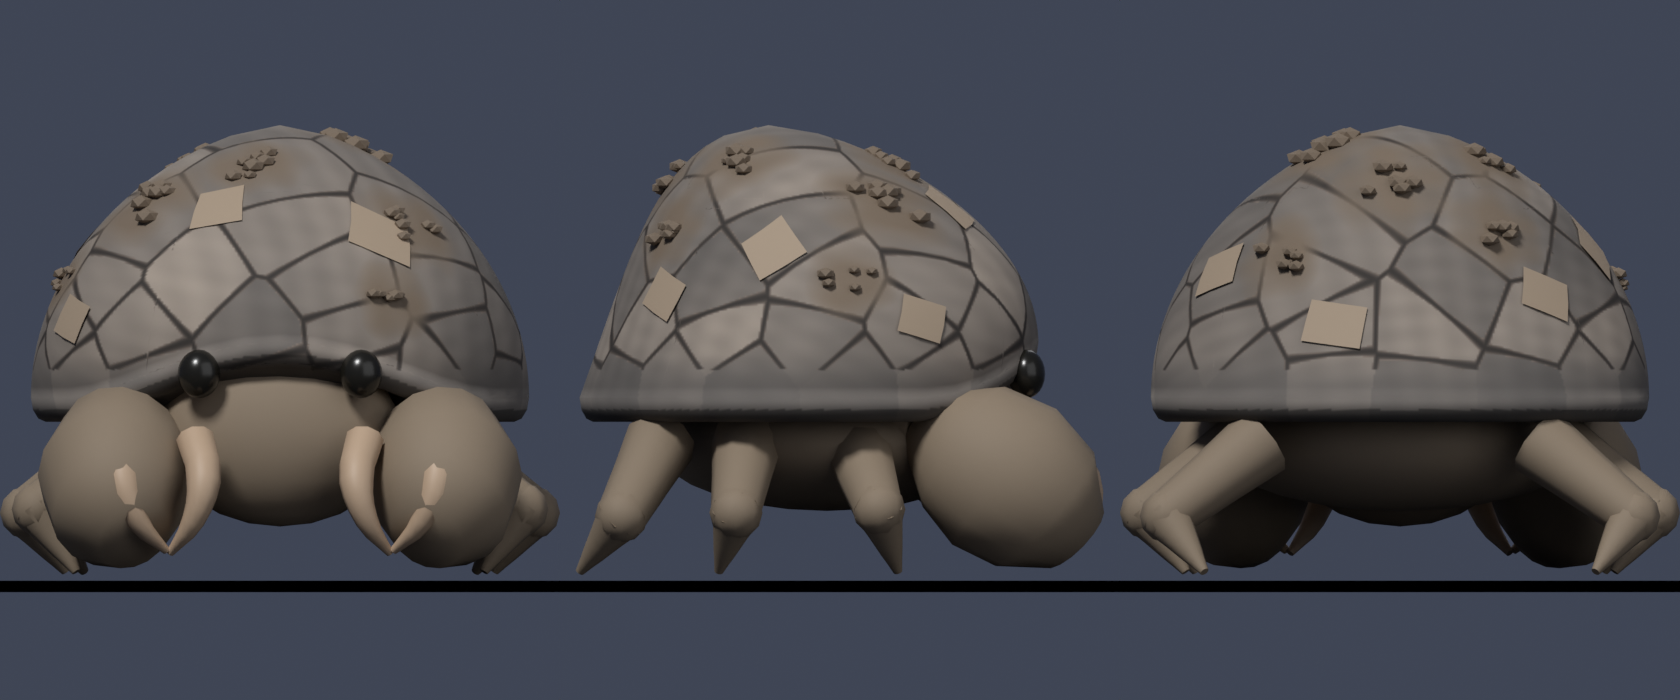
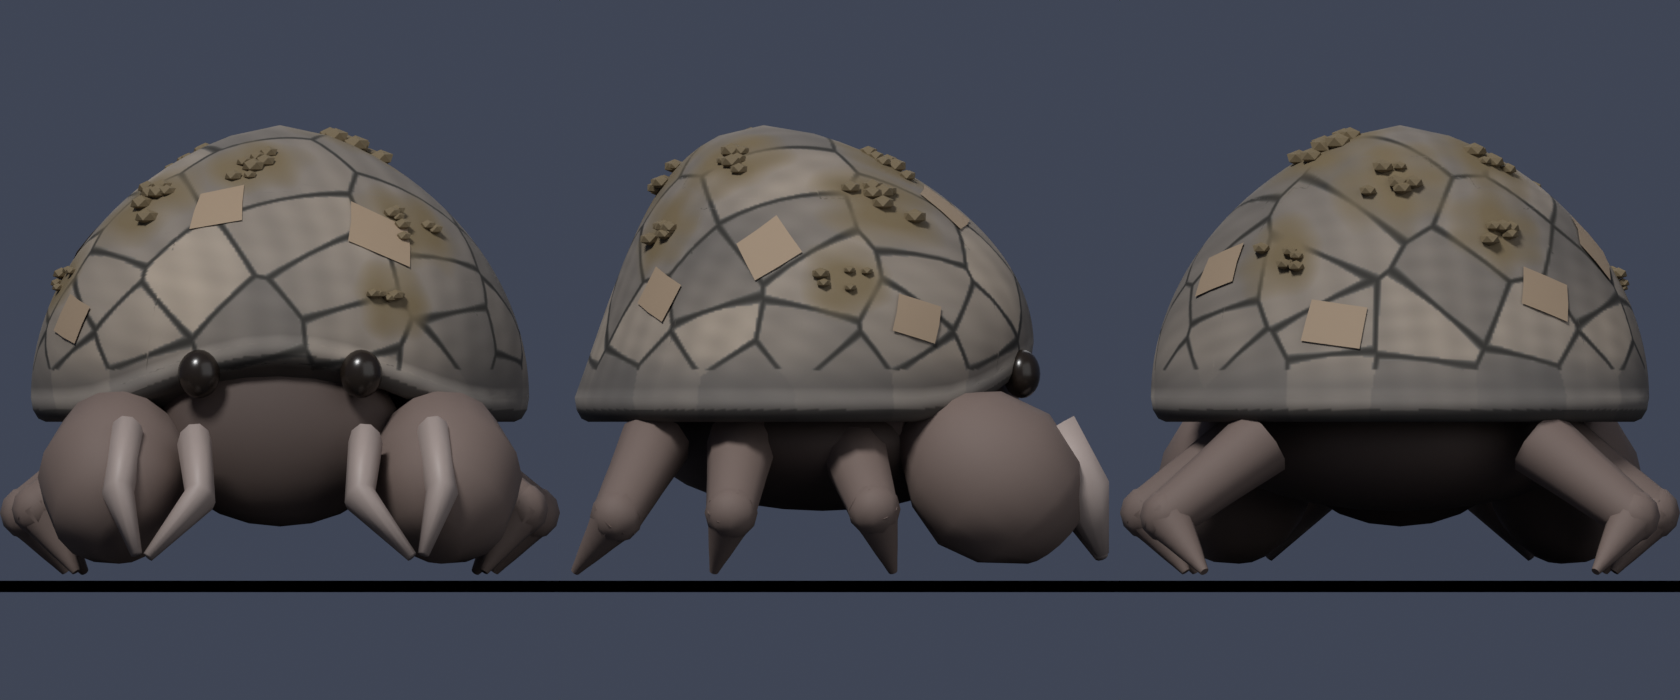
ワスレガニ: 配色をカラーパレットのチップから採り直し、鋏を組み直す
配色は三面図の描画から拾っていたが、あれには陰影と紙の地色が混ざって
いて、殻が R-B +6 のほぼ中性に見えていた。設定画のカラーパレットの
チップを直接測ると **殻は R-B -8 の青灰、足・ハサミは R-B +14 の紫灰**
で、両者の色みははっきり分かれている ―― 描画から拾った値ではこの対比が
消え、甲羅も脚も同じ砂色になっていた。苔・藻も (121,109,99) の暖かい灰
ではなく (125,113,89) のくすんだオリーブだった。

ただしチップの**明度は使わない**。チップは紙の上に薄く置かれていて L の
平均が 141 あり、三面図の描画(平均 103・標準偏差 37.9)より一段明るい。
色み(L で割った比)はチップから、明度は描画から採る。

鋏の指は筒2本から平たい刃2枚へ。前の版は外側の刃を掌の胴に埋めて
しまっていて、見えるのは内側の1枚だけ ―― 鋏ではなく牙が1本生えた拳
だった。2枚とも掌の**前面**に、x で 0.13m 離し、掌の高さの 74%(実測)
まで伸ばして、あいだに暗い隙間を作る。

三角形 8,600、奥行き 0.930m(設定画 0.927m)

Claude-Session: https://claude.ai/code/session_01PERsWFHQ12GzWFytKu9QWp

diff --git a/tools/models/wasuregani.py b/tools/models/wasuregani.py
@@ -53,17 +53,26 @@ SIDE_GROUND = 313.0       # 側面図の接地(sheet y)
 # 明度分布は L40(10%)/68(17%)/89(20%)/111(21%)/133(20%)/160(10%)/211(2%)、
 # 平均 103.0・標準偏差 37.9。スリガラス(平均77)より明るい**石の灰**で、
 # 黒い生き物ではない。
+# 出所は**カラーパレットのチップそのもの**(sheet x1259..1275)。三面図の
+# 描画から拾うと陰影と紙の地色が混ざり、殻が R-B +6 のほぼ中性に見えて
+# いたが、チップは **R-B -8 の青灰**、足・ハサミは **R-B +14 の紫灰**で、
+# 両者の色みは明確に分かれている ―― 描画から拾った値ではこの対比が消え、
+# 甲羅も脚も同じ砂色になっていた。
+#
+# ただし**チップの明度は使わない**。チップは紙の上に薄く置かれていて
+# L の平均が 141 あり、三面図の描画(平均 103・標準偏差 37.9)より
+# 一段明るい。色み(L で割った比)はチップから、明度は描画から採る。
 SHEET = {
-    "shell":     (126, 118, 120),   # 殻(メイン)くすんだ灰。やや紫寄り
-    "shelldark": (84, 85, 95),      # 殻(影)青灰。側面の後ろ側で実測
-    "shelllite": (160, 152, 150),   # 殻(ハイライト)
-    "rim":       (46, 44, 48),      # 殻の縁・溝。ほぼ黒
-    "limb":      (135, 124, 115),   # 足・ハサミ(メイン)暖かい灰
-    "limblite":  (185, 163, 144),   # ハサミの明部
-    "limbdark":  (76, 67, 64),      # 足・ハサミ(影)
-    "eye":       (27, 27, 26),      # 目。ほぼ黒
-    "paper":     (168, 152, 136),   # 記憶のカケラ(紙)
-    "moss":      (121, 109, 99),    # 苔・藻
+    "shell":     (110, 110, 116),   # 殻(メイン)くすんだ青灰
+    "shelldark": (82, 83, 93),      # 殻(影)
+    "shelllite": (160, 151, 146),   # 殻(ハイライト)わずかに暖かい
+    "rim":       (39, 39, 41),      # 板の溝。ほぼ黒
+    "limb":      (111, 99, 101),    # 足・ハサミ(メイン)紫灰
+    "limblite":  (157, 146, 147),   # 鋏の指(淡い骨色)
+    "limbdark":  (75, 66, 70),      # 足・ハサミ(影)・顔の窪み
+    "eye":       (34, 29, 27),      # 目。ほぼ黒
+    "paper":     (156, 138, 120),   # 記憶のカケラ(紙)生成り
+    "moss":      (115, 103, 82),    # 苔・藻。くすんだオリーブ
 }
 
 # ゲームの灯りは寒色なので、設定画の値をそのまま置くと画面では青く沈む。
@@ -277,20 +286,27 @@ ARM_R = (0.060, 0.062, 0.056)
 # 掌。**球で作らない**(`common.tapered_slab` の注意書きのとおり、球だと
 # ミトンになる)。手首で絞り、中ほどで最も太り、先でまた絞る中心線に
 # 楕円断面を積む ―― 設定画の鋏は「拳」の形で、腕との継ぎ目が細い。
-PALM_SPINE = ((0.250, -0.220, 0.272), (0.272, -0.292, 0.226),
-              (0.284, -0.362, 0.174), (0.278, -0.432, 0.118),
-              (0.252, -0.482, 0.070))
-PALM_W = (0.052, 0.112, 0.135, 0.118, 0.066)    # 左右(x)の半幅
-PALM_T = (0.058, 0.126, 0.148, 0.130, 0.072)    # 中心線に直交する半厚
-# 指: 掌の**内側前面**。上で開き、下の先で噛み合う三日月2枚。
-# 実測 x 0.107..0.275、z 0.031..0.245 ―― 先は地面すれすれまで降りる。
-# **太くしない** ―― 半径を掌と同じ桁にすると、掌が指の陰に隠れて
-# 「指の多い手」になる。設定画の指は掌の面に彫り込まれた細い刃。
-FINGER_R = [0.034, 0.030, 0.020, 0.007]
-FINGER_UP = ((0.262, -0.430, 0.248), (0.272, -0.500, 0.170),
-             (0.246, -0.505, 0.098), (0.196, -0.470, 0.046))
-FINGER_LO = ((0.146, -0.426, 0.238), (0.132, -0.498, 0.166),
-             (0.150, -0.502, 0.098), (0.190, -0.466, 0.042))
+PALM_SPINE = ((0.250, -0.220, 0.272), (0.272, -0.288, 0.222),
+              (0.284, -0.352, 0.170), (0.278, -0.412, 0.116),
+              (0.256, -0.452, 0.072))
+PALM_W = (0.052, 0.112, 0.135, 0.116, 0.062)    # 左右(x)の半幅
+PALM_T = (0.058, 0.126, 0.148, 0.126, 0.068)    # 中心線に直交する半厚
+# 指。設定画の鋏は**淡い骨色の刃が2枚**で、下へ、やや前へ向き、先で
+# 噛み合う。あいだの暗い隙間が「挟む」記号になっている。
+#
+# **掌の輪郭の内側へ置かない。** 前の版は外側の刃を掌の胴に埋めてしまい、
+# 見えるのが内側の1枚だけ ―― 鋏ではなく牙が1本生えた拳になっていた。
+# 2枚とも掌の**前面**に、x で 0.09m 離して置く。断面は筒ではなく
+# `tapered_slab` の平たい刃(側面から見て厚みが出ると指が指輪になる)。
+# 実測 x 0.107..0.275 / z 0.031..0.245 ―― **掌の高さの 74%** を占める。
+# 小さく作ると掌のなめらかな塊に負け、鋏ではなく豆に見える。
+FINGER_OUT = ((0.264, -0.442, 0.246), (0.280, -0.508, 0.146),
+              (0.248, -0.540, 0.040))
+FINGER_IN = ((0.148, -0.438, 0.232), (0.138, -0.502, 0.138),
+             (0.228, -0.538, 0.036))
+FINGER_W = (0.030, 0.028, 0.010)      # 左右(x)の半厚 ―― 薄い
+FINGER_T = (0.062, 0.050, 0.012)      # 刃の幅
+
 # 顔と胸の板。設定画では左右の鋏のあいだに、節の入った暗い面が目の下から
 # z≈0.09 まで続いている。ここが無いと正面の下半分に穴が空き、目を載せる
 # 面も無くなる。**甲羅の切り欠きの真下に、前面を揃えて置く。**
@@ -319,9 +335,11 @@ def claw_parts() -> tuple:
             f"{NAME}_palm{tag}",
             [(x * side, y, z) for x, y, z in PALM_SPINE],
             list(PALM_W), list(PALM_T), (1.0, 0.0, 0.0), segments=16))
-        for lab, pts in (("U", FINGER_UP), ("L", FINGER_LO)):
-            nail.append(_tube(f"{NAME}_finger{lab}{tag}", pts,
-                              list(FINGER_R), side))
+        for lab, pts in (("O", FINGER_OUT), ("I", FINGER_IN)):
+            nail.append(C.tapered_slab(
+                f"{NAME}_finger{lab}{tag}",
+                [(x * side, y, z) for x, y, z in pts],
+                list(FINGER_W), list(FINGER_T), (1.0, 0.0, 0.0), segments=10))
     return hard, nail
 
 
